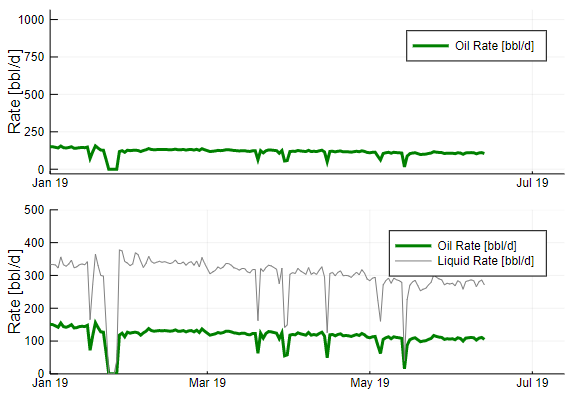
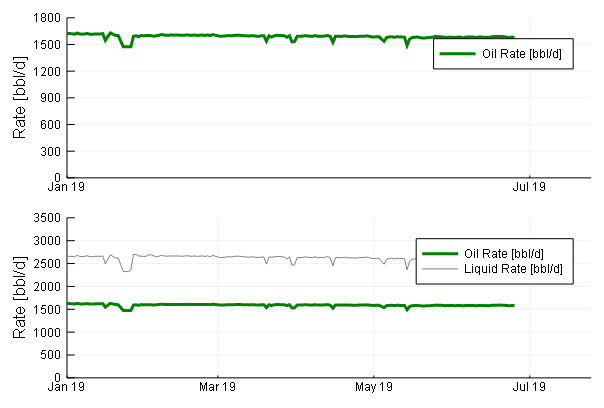
Update ReadMe

Changed region(s): [[0.0, 0.5087, 0.9757, 0.9875], [0.0, 0.0299, 0.9757, 0.4788]]

diff --git a/README.md b/README.md
@@ -62,8 +62,8 @@ You can use the ```oilrate``` recipe to plot the production Oil production data 
 ```julia
 l=[Date(2019,1,1), Date(2019,5,27)]
 
-p1=oilrate(p.Datee, p.OilRate, Dlim=l, legend=true)
-p2=oilrate(p.Datee, p.OilRate,p.LiquidRate, Dlim=l, mrange=2, Liquid=true,legend=true, ylimit=(0,500))
+p1=oilrate(p.Datee, p.OilRate, Dlim=l, legend=true, ylimit=(0,1800))
+p2=oilrate(p.Datee, p.OilRate,p.LiquidRate, Dlim=l, mrange=2, Liquid=true,legend=true, ylimit=(0,3500))
 plot(p1,p2, layout=(2,1))
 ```
 <img src="WellProductivity_EX2.PNG"><br>
@@ -74,8 +74,8 @@ In the example is plotted the same data comparing the the Anomaly Detection algo
 ```julia
 l=[Date(2019,1,1), Date(2019,5,27)]
 r=[Date(2019,2,1), Date(2019,5,27)]
-p1=oilrate(p.Datee, p.OilRate, Dlim=l, ylim=(0,250), mrange=1, Dec=true, Drange=r, Ad=true)
-p2=oilrate(p.Datee, p.OilRate, Dlim=l, ylim=(0,250), mrange=1, Dec=true, Drange=r, Ad=false )
+p1=oilrate(p.Datee, p.OilRate, Dlim=l,  ylim=(0,600),mrange=1, Dec=true, Drange=r, Ad=true)
+p2=oilrate(p.Datee, p.OilRate, Dlim=l,  ylim=(0,600),  mrange=1, Dec=true, Drange=r, Ad=false )
 plot(p1,p2, layout=(2,1), size=(800,600), title=["Anomaly Detection Declination" "Conventional Declination"])
 ```
 <img src="WellProductivity_EX3.PNG"><br>
@@ -85,8 +85,8 @@ You can add a forecast by setting ```forecast=true``` for a given months.
 ```julia
 l=[Date(2019,1,1), Date(2019,12,31)]
 r=[Date(2019,2,1), Date(2019,5,27)]
-p1=oilrate(p.Datee, p.OilRate, Dlim=l, ylim=(0,250), mrange=2, Dec=true, Drange=r,Forecast=true, Ad=true, Mforecast=5, legend=true)
-p2=oilrate(p.Datee, p.OilRate, Dlim=l, ylim=(0,250), mrange=2, Dec=true, Drange=r,Forecast=true, Ad=false, legend=true,Mforecast=5)
+p1=oilrate(p.Datee, p.OilRate, Dlim=l, ylim=(0,600), mrange=2, Dec=true, Drange=r,Forecast=true, Ad=true, Mforecast=5, legend=true)
+p2=oilrate(p.Datee, p.OilRate, Dlim=l, ylim=(0,600), mrange=2, Dec=true, Drange=r,Forecast=true, Ad=false, legend=true,Mforecast=5)
 plot(p1,p2, layout=(2,1), size=(800,600), title=["Forecast Anomaly Detection Declination" "Forecast Conventional Declination"])
 ```
 <img src="WellProductivity_EX4.PNG"><br>
@@ -96,9 +96,9 @@ You can also stop the forecast by the Economic Limit
 ```julia
 l=[Date(2019,1,1), Date(2019,12,31)]
 r=[Date(2019,2,1), Date(2019,5,27)]
-p2=oilrate(p.Datee, p.OilRate, p.LiquidRate, Dlim=l, ylim=(0,300), mrange=3, Dec=true, Drange=r,Forecast=true, Ad=true, legend=true, EconLimit=20)
-p1=oilrate(p.Datee, p.OilRate, p.LiquidRate, Dlim=l, ylim=(0,300), mrange=3, Dec=true, Drange=r,Forecast=true, Ad=true, legend=true, Mforecast=12)
-plot(p1,p2, layout=(2,1), title=["Economic Limit Forecast" "Fixed Time Forecast"])
+p1=oilrate(p.Datee, p.OilRate, p.LiquidRate, Dlim=l, ylim=(0,600), mrange=3, Dec=true, Drange=r,Forecast=true, Ad=true, legend=true, EconLimit=80)
+p2=oilrate(p.Datee, p.OilRate, p.LiquidRate, Dlim=l, ylim=(0,600), mrange=3, Dec=true, Drange=r,Forecast=true, Ad=true, legend=true, Mforecast=12)
+plot(p1,p2, layout=(2,1), size=(800,600),title=["Economic Limit Forecast" "Fixed Time Forecast"])
 ```
 <img src="WellProductivity_EX5.PNG"><br>
 
